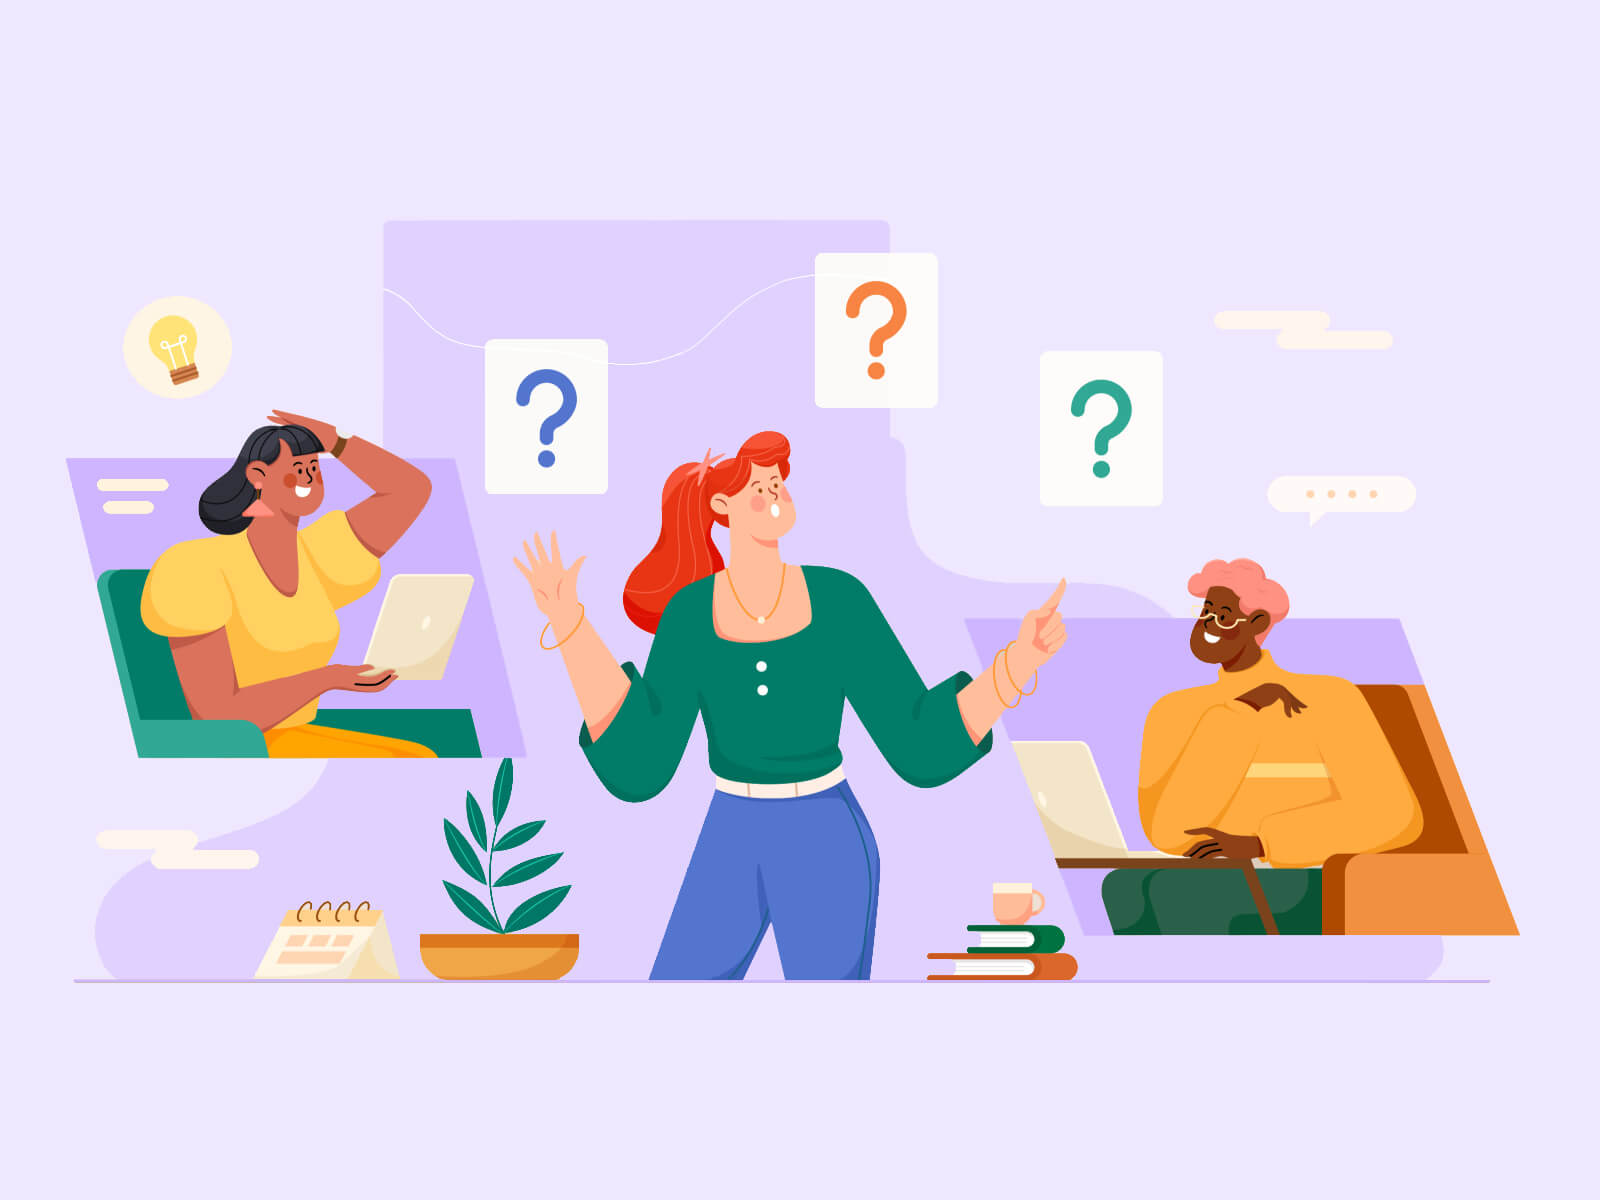
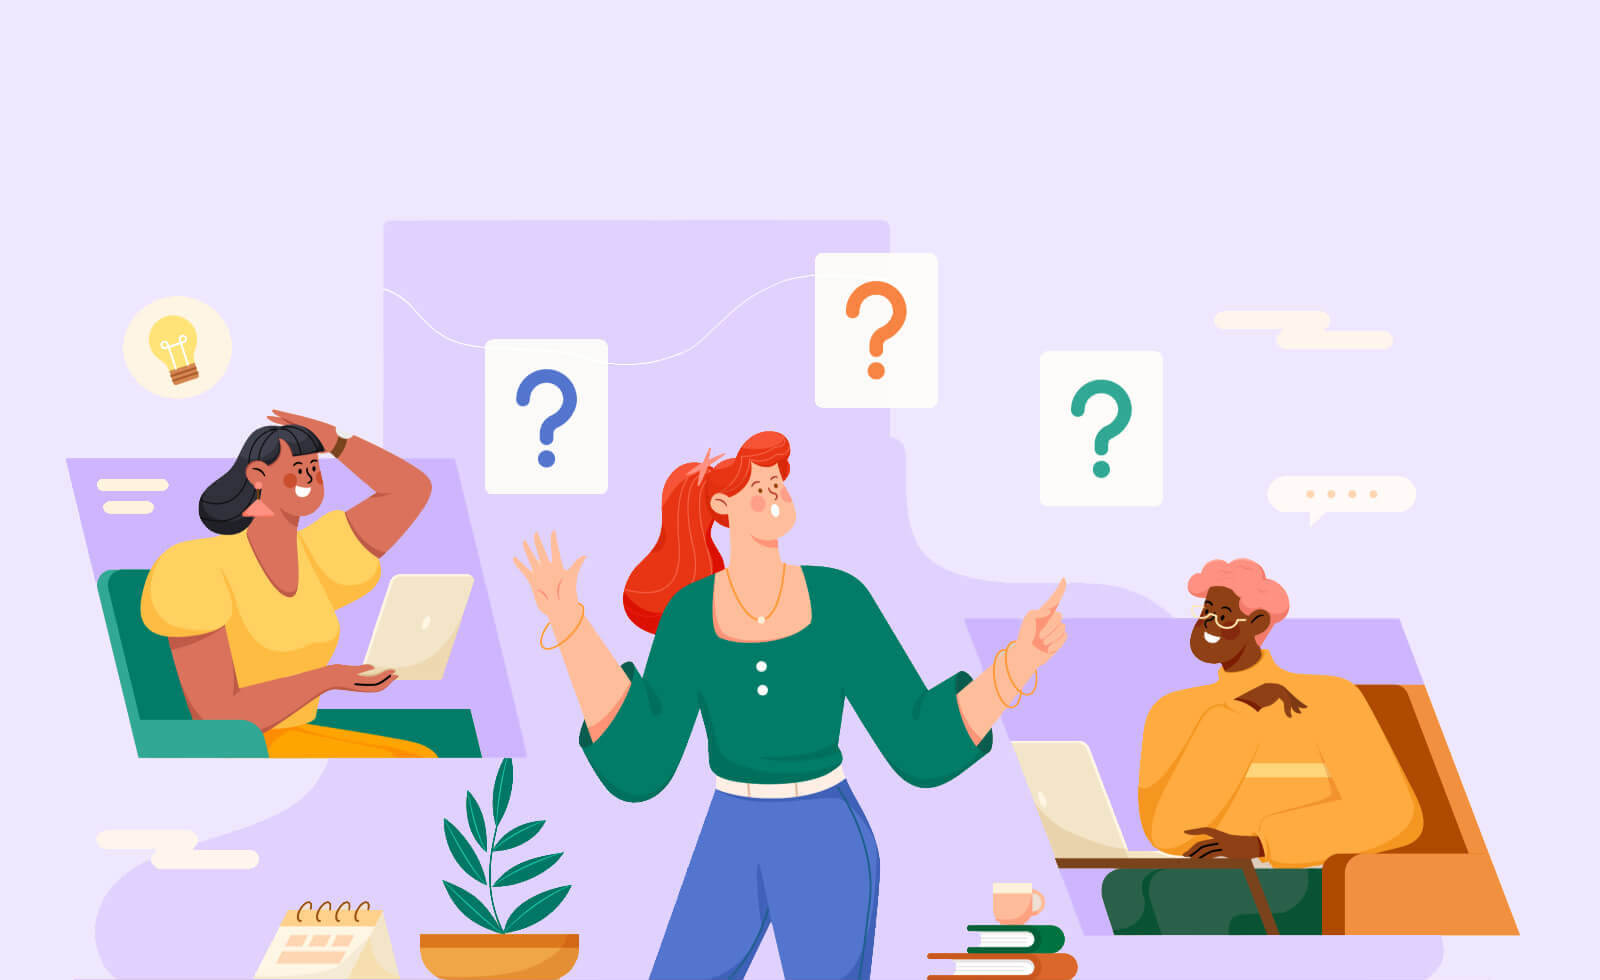
fix: adjust styles and translation for 404/error page

diff --git a/src/components/BasicComponents/ErrorFallback.tsx b/src/components/BasicComponents/ErrorFallback.tsx
@@ -3,20 +3,23 @@ import { useQueryErrorResetBoundary } from '@tanstack/react-query';
 import { Button } from './Button';
 
 import styles from './ErrorFallback.module.css';
-import errorImg from '@/assets/images/not-found.jpg';
+import { useTranslation } from 'react-i18next';
 
 interface IErrorFallback {
   error: Error;
 }
 export const ErrorFallback = ({ error }: IErrorFallback) => {
+  const { t } = useTranslation();
   const { resetBoundary } = useErrorBoundary();
   const { reset } = useQueryErrorResetBoundary();
+
   return (
     <div onReset={reset} className={styles.wrapper} role="alert">
-      <img className={styles.img} src={errorImg} alt="Got error" />
-      <h2>Something went wrong:</h2>
-      <pre style={{ color: 'red' }}>{error?.message ?? 'error'}</pre>
-      <Button onClick={resetBoundary}>Try again</Button>
+      <h2 className={styles.title}>{t('notFound.wrong')}</h2>
+      <p className={styles.errorMessage} style={{ color: 'red' }}>
+        {error?.message ?? 'error'}
+      </p>
+      <Button onClick={resetBoundary}>{t('login.return')}</Button>
     </div>
   );
 };

diff --git a/src/pages/NotFoundPage/NotFoundPage.tsx b/src/pages/NotFoundPage/NotFoundPage.tsx
@@ -3,10 +3,11 @@ import { useState } from 'react';
 import { Button } from '@/components/BasicComponents/Button';
 
 import styles from './NotFoundPage.module.css';
-import notFoundImage from '@/assets/images/not-found.jpg';
+import { useTranslation } from 'react-i18next';
 
 export const NotFoundPage = () => {
   const [redirectToMain, setRedirectToMain] = useState(false);
+  const { t } = useTranslation();
 
   if (redirectToMain) {
     return <Navigate to="/" />;
@@ -15,16 +16,10 @@ export const NotFoundPage = () => {
   return (
     <div className={styles.wrapper}>
       <h1 className={styles.title}>404</h1>
-      <div className={styles.message}>Something went wrong</div>
+      <div className={styles.message}>{t('notFound.wrong')}</div>
       <Button type="button" onClick={() => setRedirectToMain(true)}>
-        Return to main page
+        {t('notFound.return')}
       </Button>
-      <img
-        className={styles.notFoundImage}
-        src={notFoundImage}
-        alt="Page not found"
-        draggable="false"
-      ></img>
     </div>
   );
 };

diff --git a/src/components/BasicComponents/ErrorFallback.module.css b/src/components/BasicComponents/ErrorFallback.module.css
@@ -1,20 +1,38 @@
 .wrapper {
   display: flex;
-  justify-content: center;
   align-items: center;
   flex-direction: column;
   width: 100%;
-  height: 100vh;
-  background: linear-gradient(
-    145deg,
-    rgba(255, 248, 245, 1) 0%,
-    rgba(255, 243, 249, 1) 10%,
-    rgba(239, 231, 255, 1) 27%
-  );
+  height: calc(100vh - 3rem);
+  padding: 5rem 2rem;
+  background: url('../../assets/images/not-found.jpg') bottom / 62% no-repeat,
+    linear-gradient(
+      145deg,
+      rgba(255, 248, 245, 1) 0%,
+      rgba(255, 243, 249, 1) 10%,
+      rgba(239, 231, 255, 1) 27%
+    );
   overflow: hidden;
 }
 
 .img {
   width: 40vw;
   height: 40vh;
+}
+
+.title {
+  text-align: center;
+  margin-bottom: 0;
+}
+
+.errorMessage {
+  max-width: 80%;
+  text-align: center;
+  font-family: monospace;
+}
+
+@media (max-width: 470px) {
+  .errorMessage {
+    width: 18rem;
+  }
 }

diff --git a/src/pages/NotFoundPage/NotFoundPage.module.css b/src/pages/NotFoundPage/NotFoundPage.module.css
@@ -1,11 +1,18 @@
 .wrapper {
   position: relative;
   width: 100%;
-  height: 100vh;
+  min-height: calc(100vh - 3rem);
   display: flex;
   flex-direction: column;
   align-items: center;
-  background-color: var(--lilac-color);
+  padding-top: 3rem;
+  background: url('../../assets/images/not-found.jpg') bottom / 62% no-repeat,
+    linear-gradient(
+      145deg,
+      rgba(255, 248, 245, 1) 0%,
+      rgba(255, 243, 249, 1) 10%,
+      rgba(239, 231, 255, 1) 27%
+    );
   overflow: hidden;
 }
 
@@ -25,4 +32,16 @@
   position: absolute;
   bottom: -4rem;
   width: 70%;
+}
+
+@media (max-width: 900px) {
+  .wrapper {
+    background: url('../../assets/images/not-found.jpg') bottom / 80% no-repeat,
+      linear-gradient(
+        145deg,
+        rgba(255, 248, 245, 1) 0%,
+        rgba(255, 243, 249, 1) 10%,
+        rgba(239, 231, 255, 1) 27%
+      );
+  }
 }
